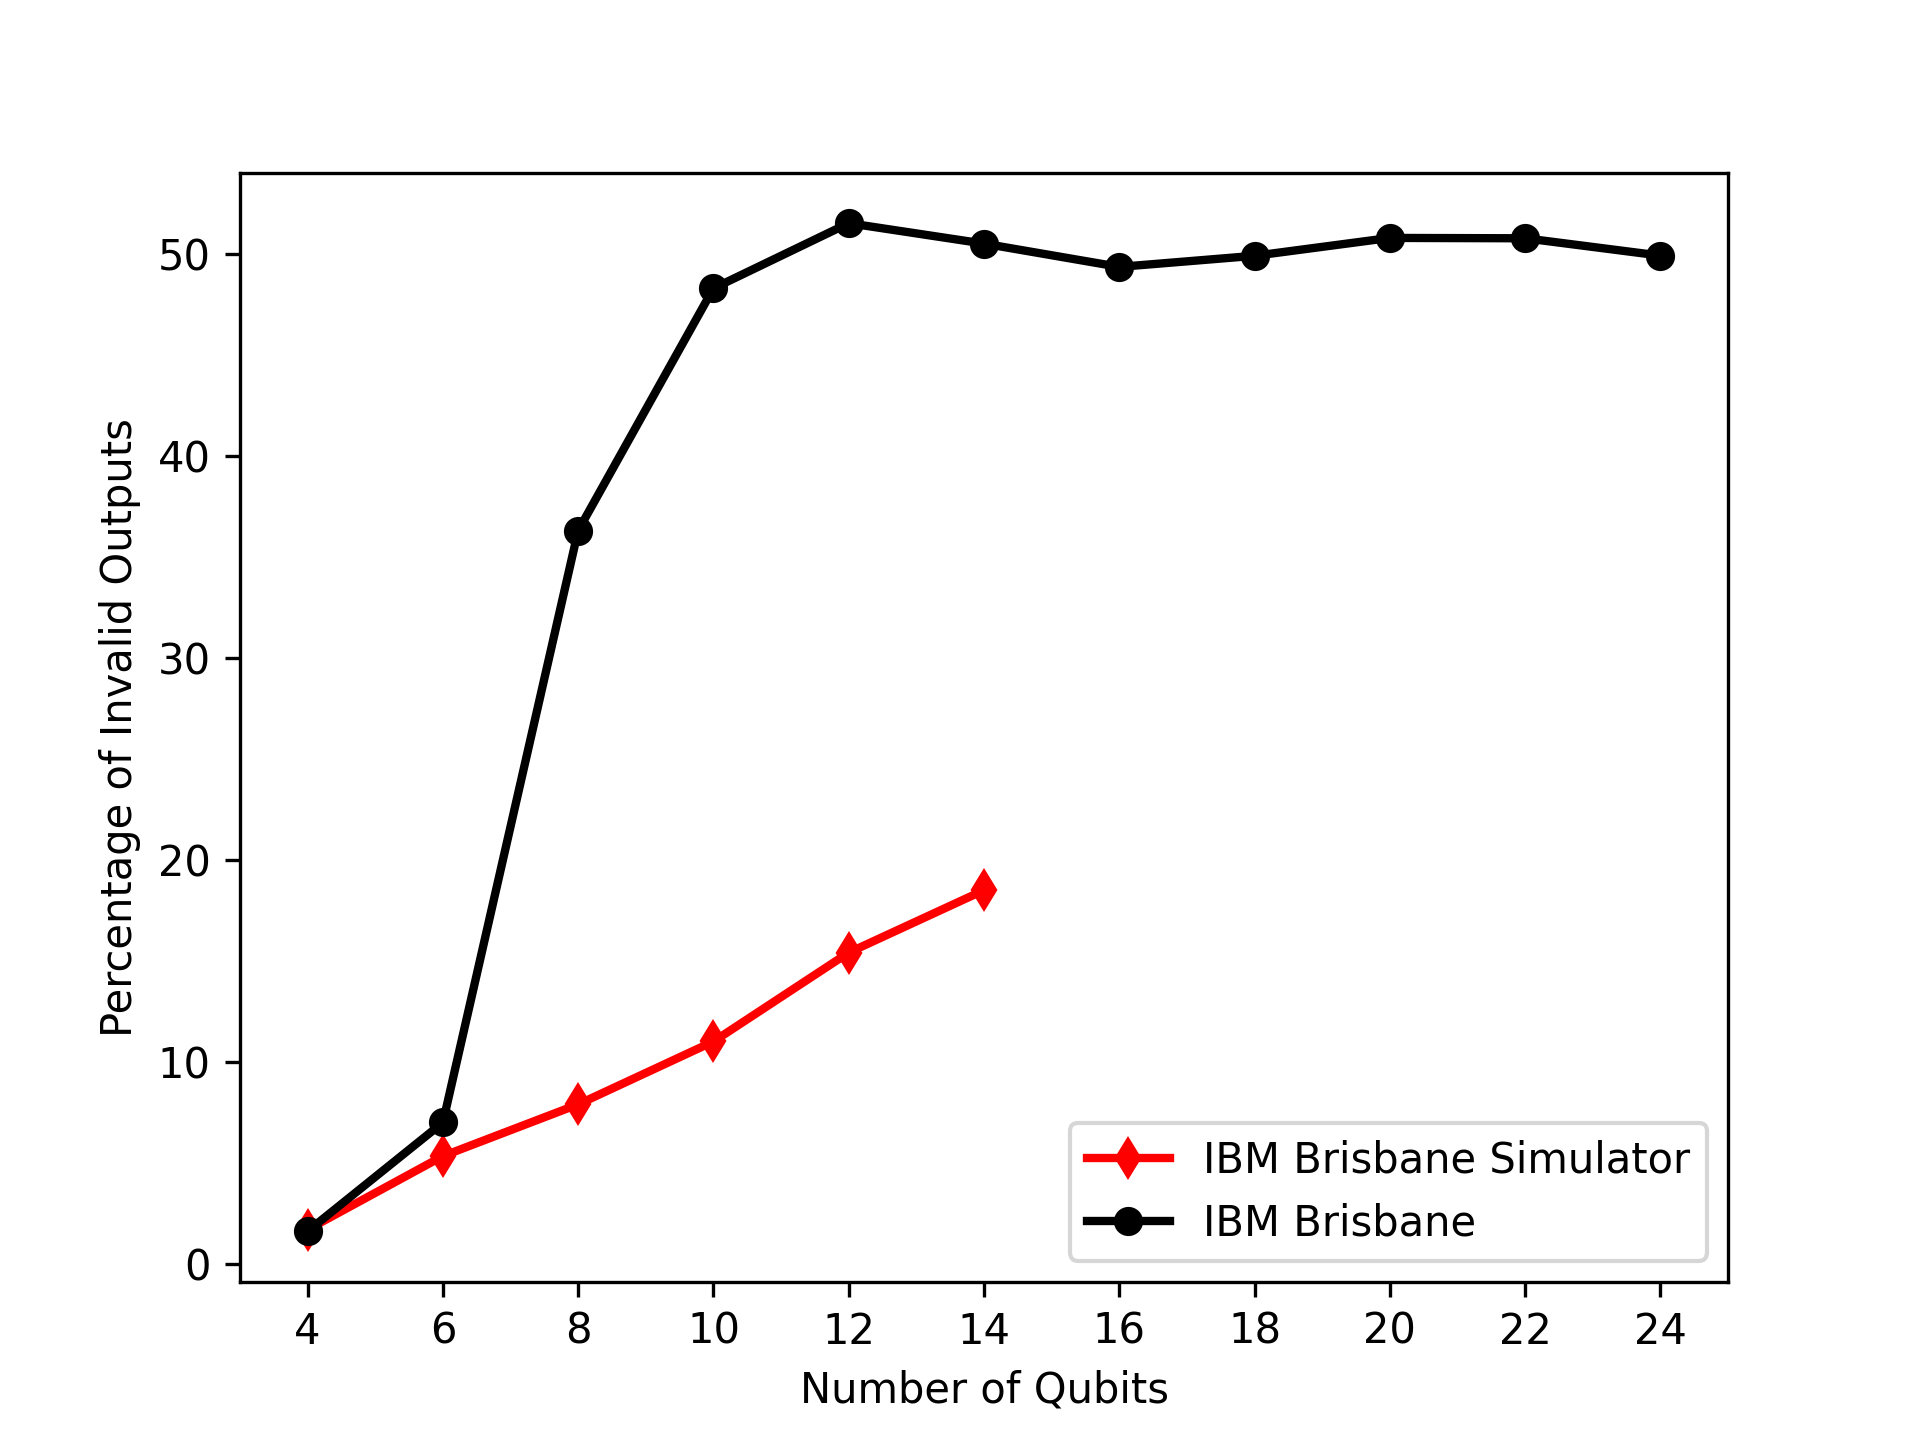
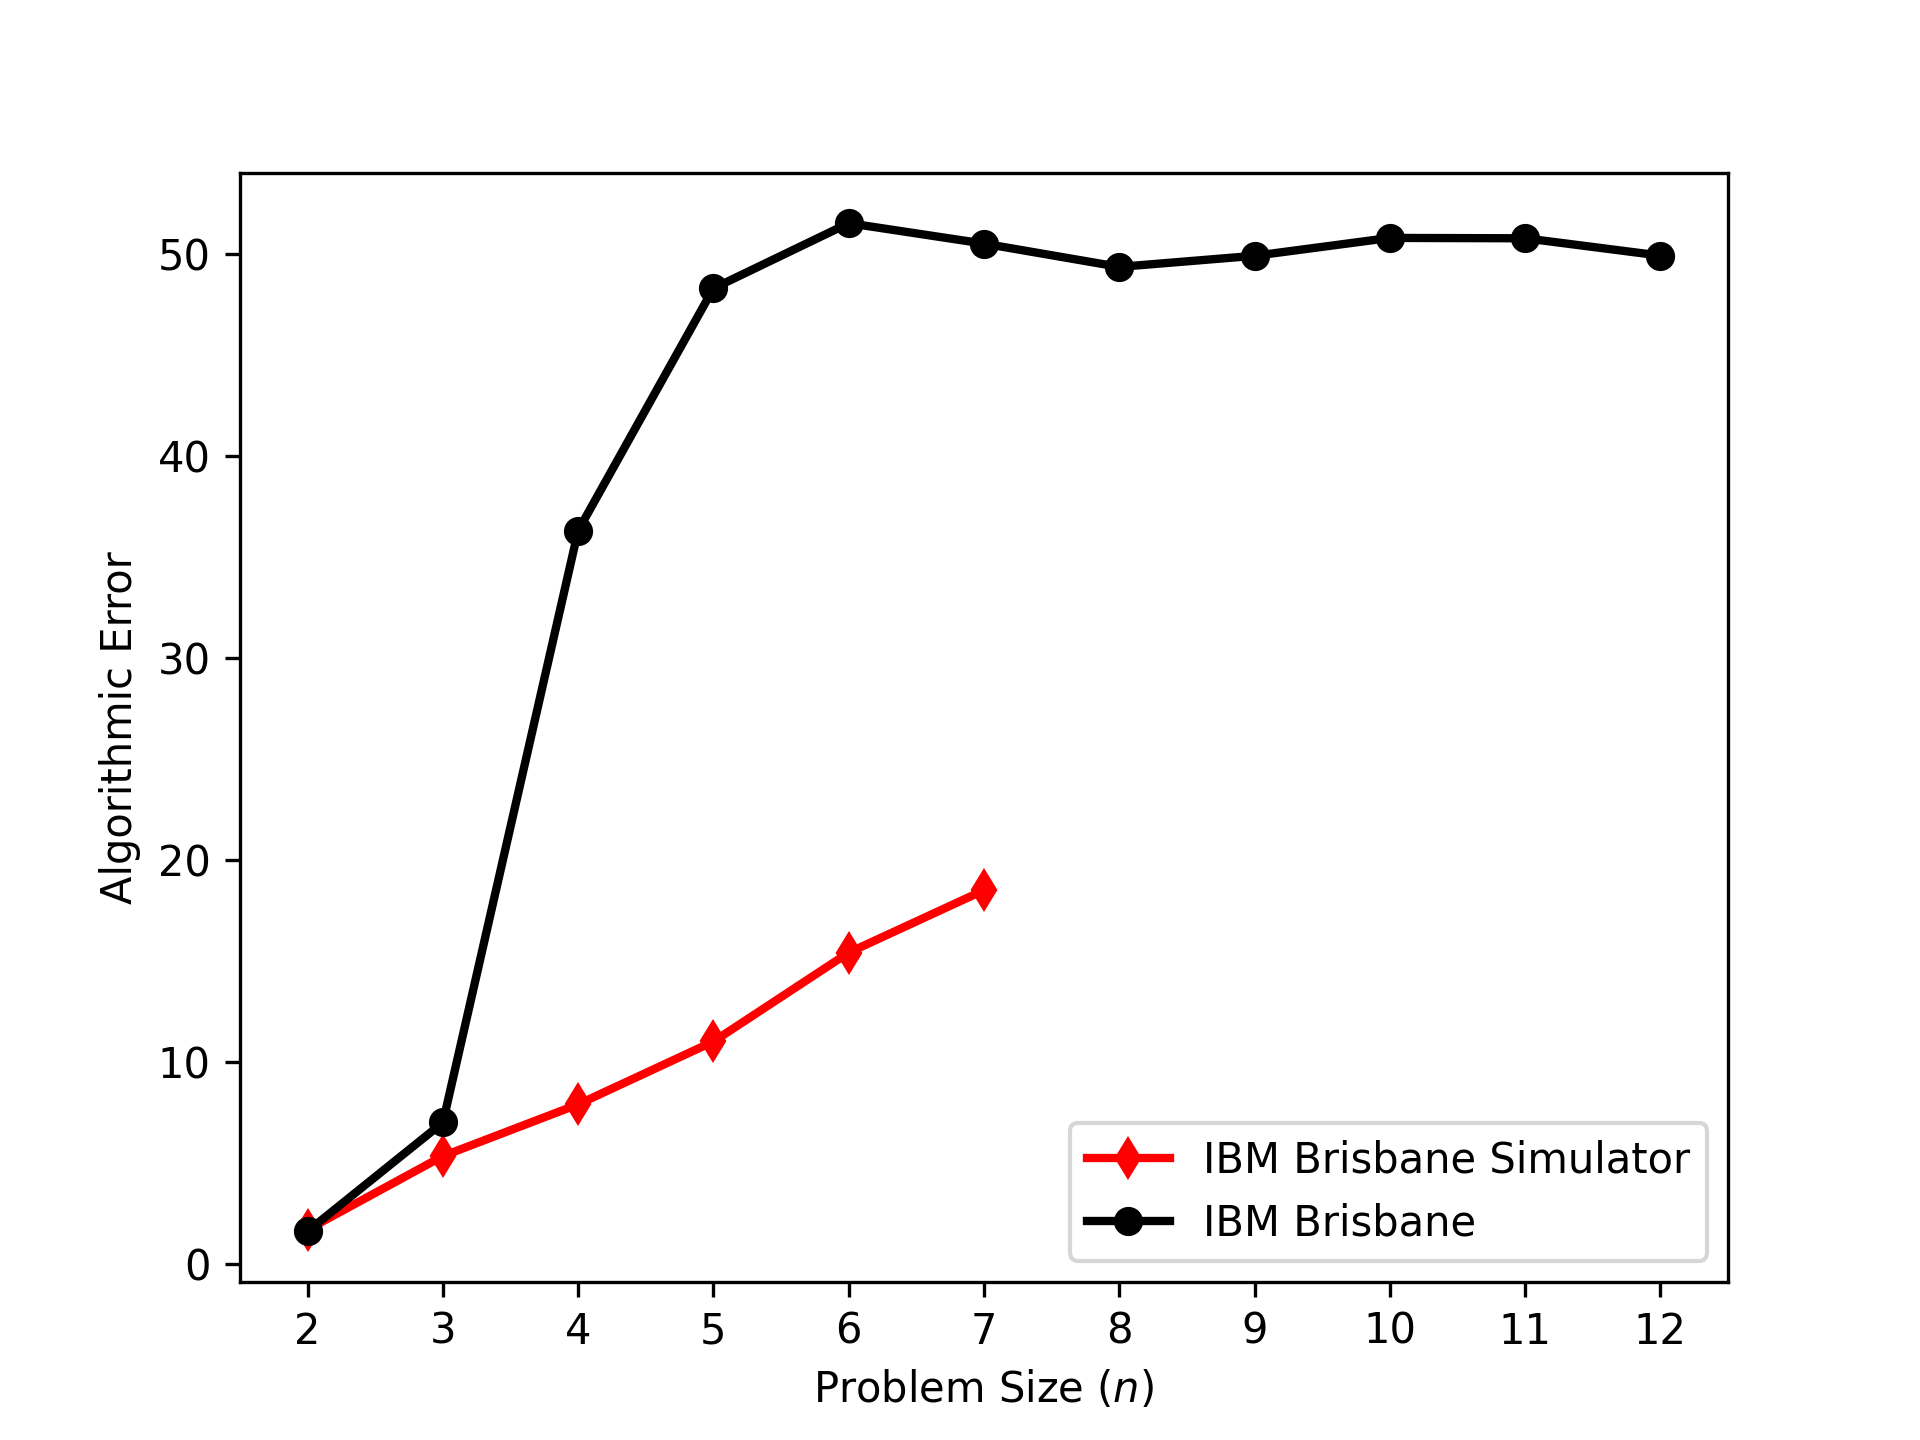
Updates to plotting function.

diff --git a/plotting.py b/plotting.py
@@ -103,7 +103,7 @@ def plotLine(
 
     # Trim the error array and create a qubit count array of the proper size.
     errorArray = np.trim_zeros(errorArray)
-    qubitCounts = np.arange(4, 2*len(errorArray)+3, 2)
+    qubitCounts = np.arange(2, len(errorArray)+2, 1)
 
     # Plot the error array against the qubit count array.
     plt.plot(qubitCounts, errorArray*100, lineStyle, label=label, linewidth=2)
@@ -147,8 +147,8 @@ def constructPlot(deviceNames, figureName, specialColors=False):
         )
 
     # Label and save the plot.
-    plt.xlabel('Number of Qubits')
-    plt.ylabel('Percentage of Invalid Outputs')
+    plt.xlabel('Problem Size ($n$)')
+    plt.ylabel('Algorithmic Error')
     plt.legend(loc='best')
     plt.savefig(f'figures/{figureName}', dpi=300)
 
